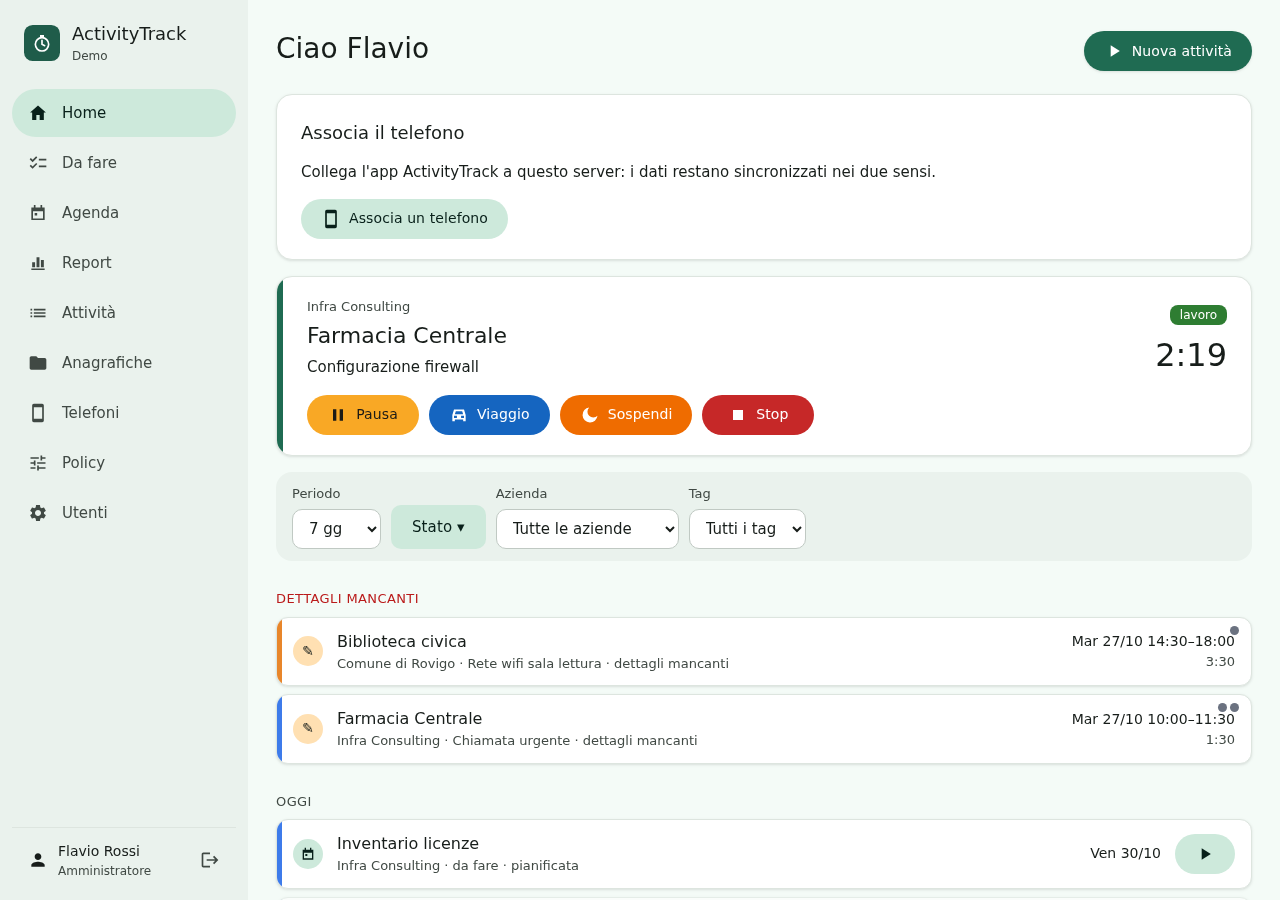
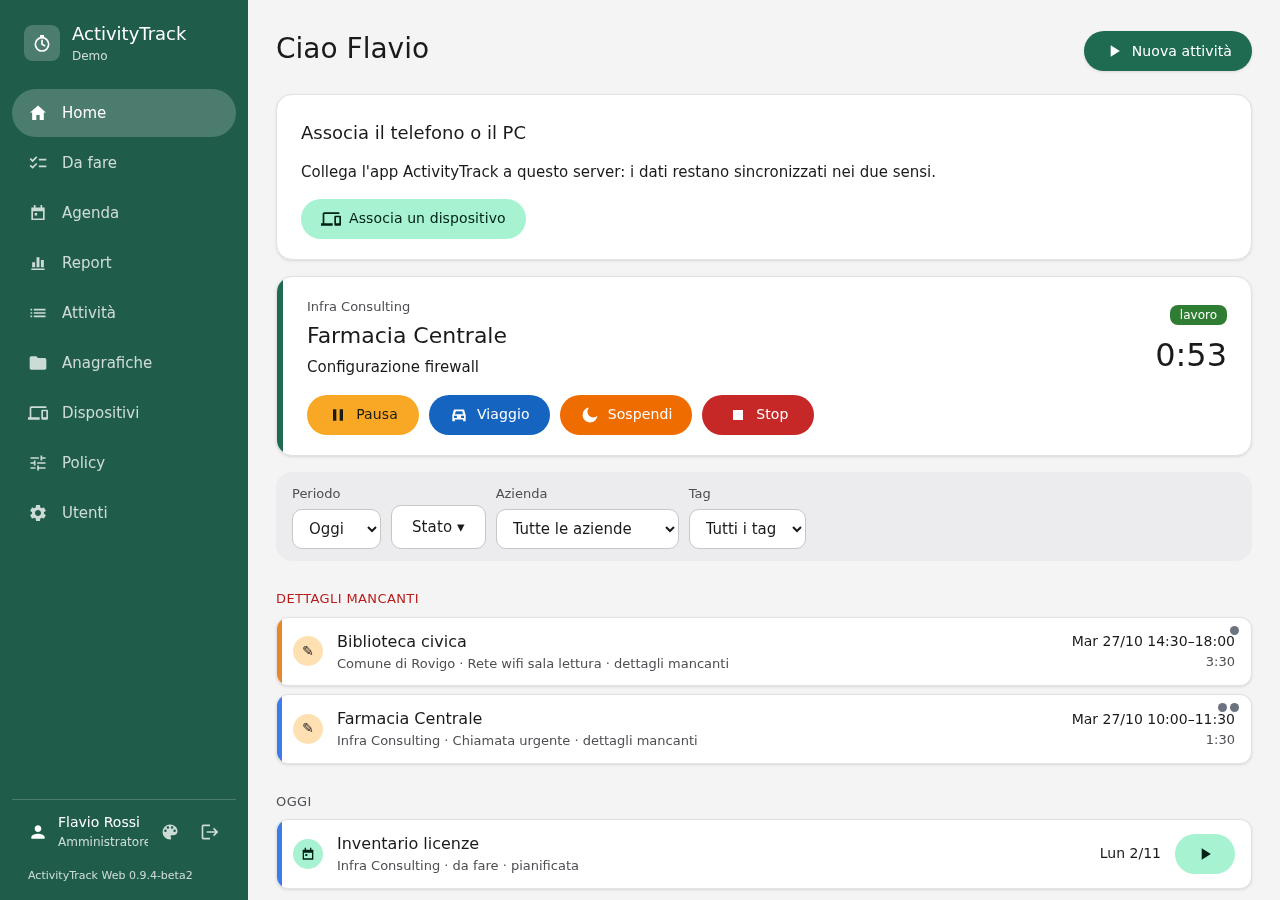
Dates, times and theme as each user prefers them (#38, #39)
- Preferences page (palette icon next to one's name, "Altro" on a phone):
  date format European, American or ISO; 24 or 12 hours; theme light,
  dark or as the system; theme colour green, blue, violet, orange or grey.
  Kept on the user (accounts 0009), so every browser follows them.
- Pages show dates and times in those formats (web/formats.py, filters
  udate/utime/udatetime, the agenda's hours and blocks).
- pickers.js: the browser's date and time inputs become text fields in
  the user's formats with a calendar and the app's 5-minute grid; start
  and end chosen together by dragging or tapping first and last cell;
  the other segments of the day hatched (/attivita/occupato/). The forms
  keep ISO values: the server reads them as before.
- Company before client in the activity and to-do forms; the company
  filters the clients, a client brings its company, as in the app.
- Theme: neutral pages (white and greys, black and dark greys); the theme
  colour on the menu bars, buttons and what is selected.
- Admin manual (it/en) §8 and new screenshots.

diff --git a/it/admin.md b/it/admin.md
@@ -218,6 +218,34 @@ Ognuno trova sul web il proprio lavoro, come nell'app.
 
 ![Agenda: la settimana](../img/agenda.png)
 
+**Date e orari.** Nei moduli date e orari si scrivono nel formato scelto
+nelle preferenze, oppure si scelgono con il pulsante a destra del campo: un
+calendario che parte dal lunedì e, per gli orari, la **griglia a 5 minuti**
+dell'app (una riga per ora, 12 ore alla volta; **▲ Prima** / **Dopo ▼**
+spostano la finestra di 3 ore). Inizio e fine si scelgono insieme:
+trascinando dalla prima casella all'ultima, oppure toccando la prima e poi
+l'ultima, e **OK**; in alto l'intervallo e la durata, le caselle
+**tratteggiate** sono occupate da altre attività di quel giorno. **Orario
+esatto** accetta i minuti fuori griglia (es. 09:37). Nei moduli l'**azienda**
+viene prima del **cliente** e ne filtra l'elenco; scegliendo un cliente,
+l'azienda diventa la sua.
+
+![La griglia degli orari: 08:15–09:45, tratteggiata l'attività in corso](../img/picker.png)
+
+**Preferenze.** Dall'icona della tavolozza, accanto al proprio nome (sul
+telefono: *Altro → Preferenze*), ognuno sceglie:
+- il **formato delle date**: europeo (31/12/2026), americano (12/31/2026) o
+  ISO (2026-12-31);
+- il **formato degli orari**: 24 ore (18:30) o 12 ore (6:30 PM);
+- il **tema**: chiaro, scuro o come il sistema; le pagine restano bianche e
+  grigie (nere nel tema scuro);
+- il **colore del tema**, per le barre dei menu e i pulsanti: verde, blu,
+  viola, arancione o grigio.
+
+Le preferenze sono dell'utente: valgono su ogni browser con cui accede.
+
+![Preferenze](../img/preferences.png)
+
 **Da fare assegnate.** Un responsabile, o un amministratore, crea una voce
 e sceglie **"Assegnata a"**: la voce diventa della persona scelta e arriva
 sui suoi telefoni. Riassegnandola, sparisce dai telefoni di chi l'aveva.

diff --git a/en/admin.md b/en/admin.md
@@ -217,6 +217,34 @@ Everyone finds their own work on the web, as in the app.
 
 ![Agenda: the week](../img/agenda.png)
 
+**Dates and times.** In the forms dates and times are typed in the format
+chosen in the preferences, or picked with the button at the right of the
+field: a calendar starting on Monday and, for times, the app's **5-minute
+grid** (one row per hour, 12 hours at a time; **▲ Prima** / **Dopo ▼**
+move the window by 3 hours). Start and end are chosen together: drag from
+the first cell to the last, or tap the first and then the last, and **OK**;
+at the top the range and its length, the **hatched** cells are taken by
+other activities of that day. **Orario esatto** (exact time) takes the
+minutes off the grid (e.g. 09:37). In the forms the **company** comes before
+the **client** and filters its list; a client chosen brings its company.
+
+![The time grid: 08:15–09:45, the running activity hatched](../img/picker.png)
+
+**Preferences.** From the palette icon next to one's name (on a phone:
+*Altro → Preferenze*), everyone chooses:
+- the **date format**: European (31/12/2026), American (12/31/2026) or ISO
+  (2026-12-31);
+- the **time format**: 24 hours (18:30) or 12 hours (6:30 PM);
+- the **theme**: light, dark or as the system; the pages stay white and
+  grey (black in the dark theme);
+- the **theme colour**, for the menu bars and the buttons: green, blue,
+  violet, orange or grey.
+
+The preferences are the user's: they hold on every browser they sign in
+with.
+
+![Preferences](../img/preferences.png)
+
 **Assigned to-dos.** A manager, or an administrator, creates a to-do and
 picks **"Assegnata a"** (assigned to): the to-do becomes the chosen
 person's and reaches their phones. Reassigned, it leaves the phones of
